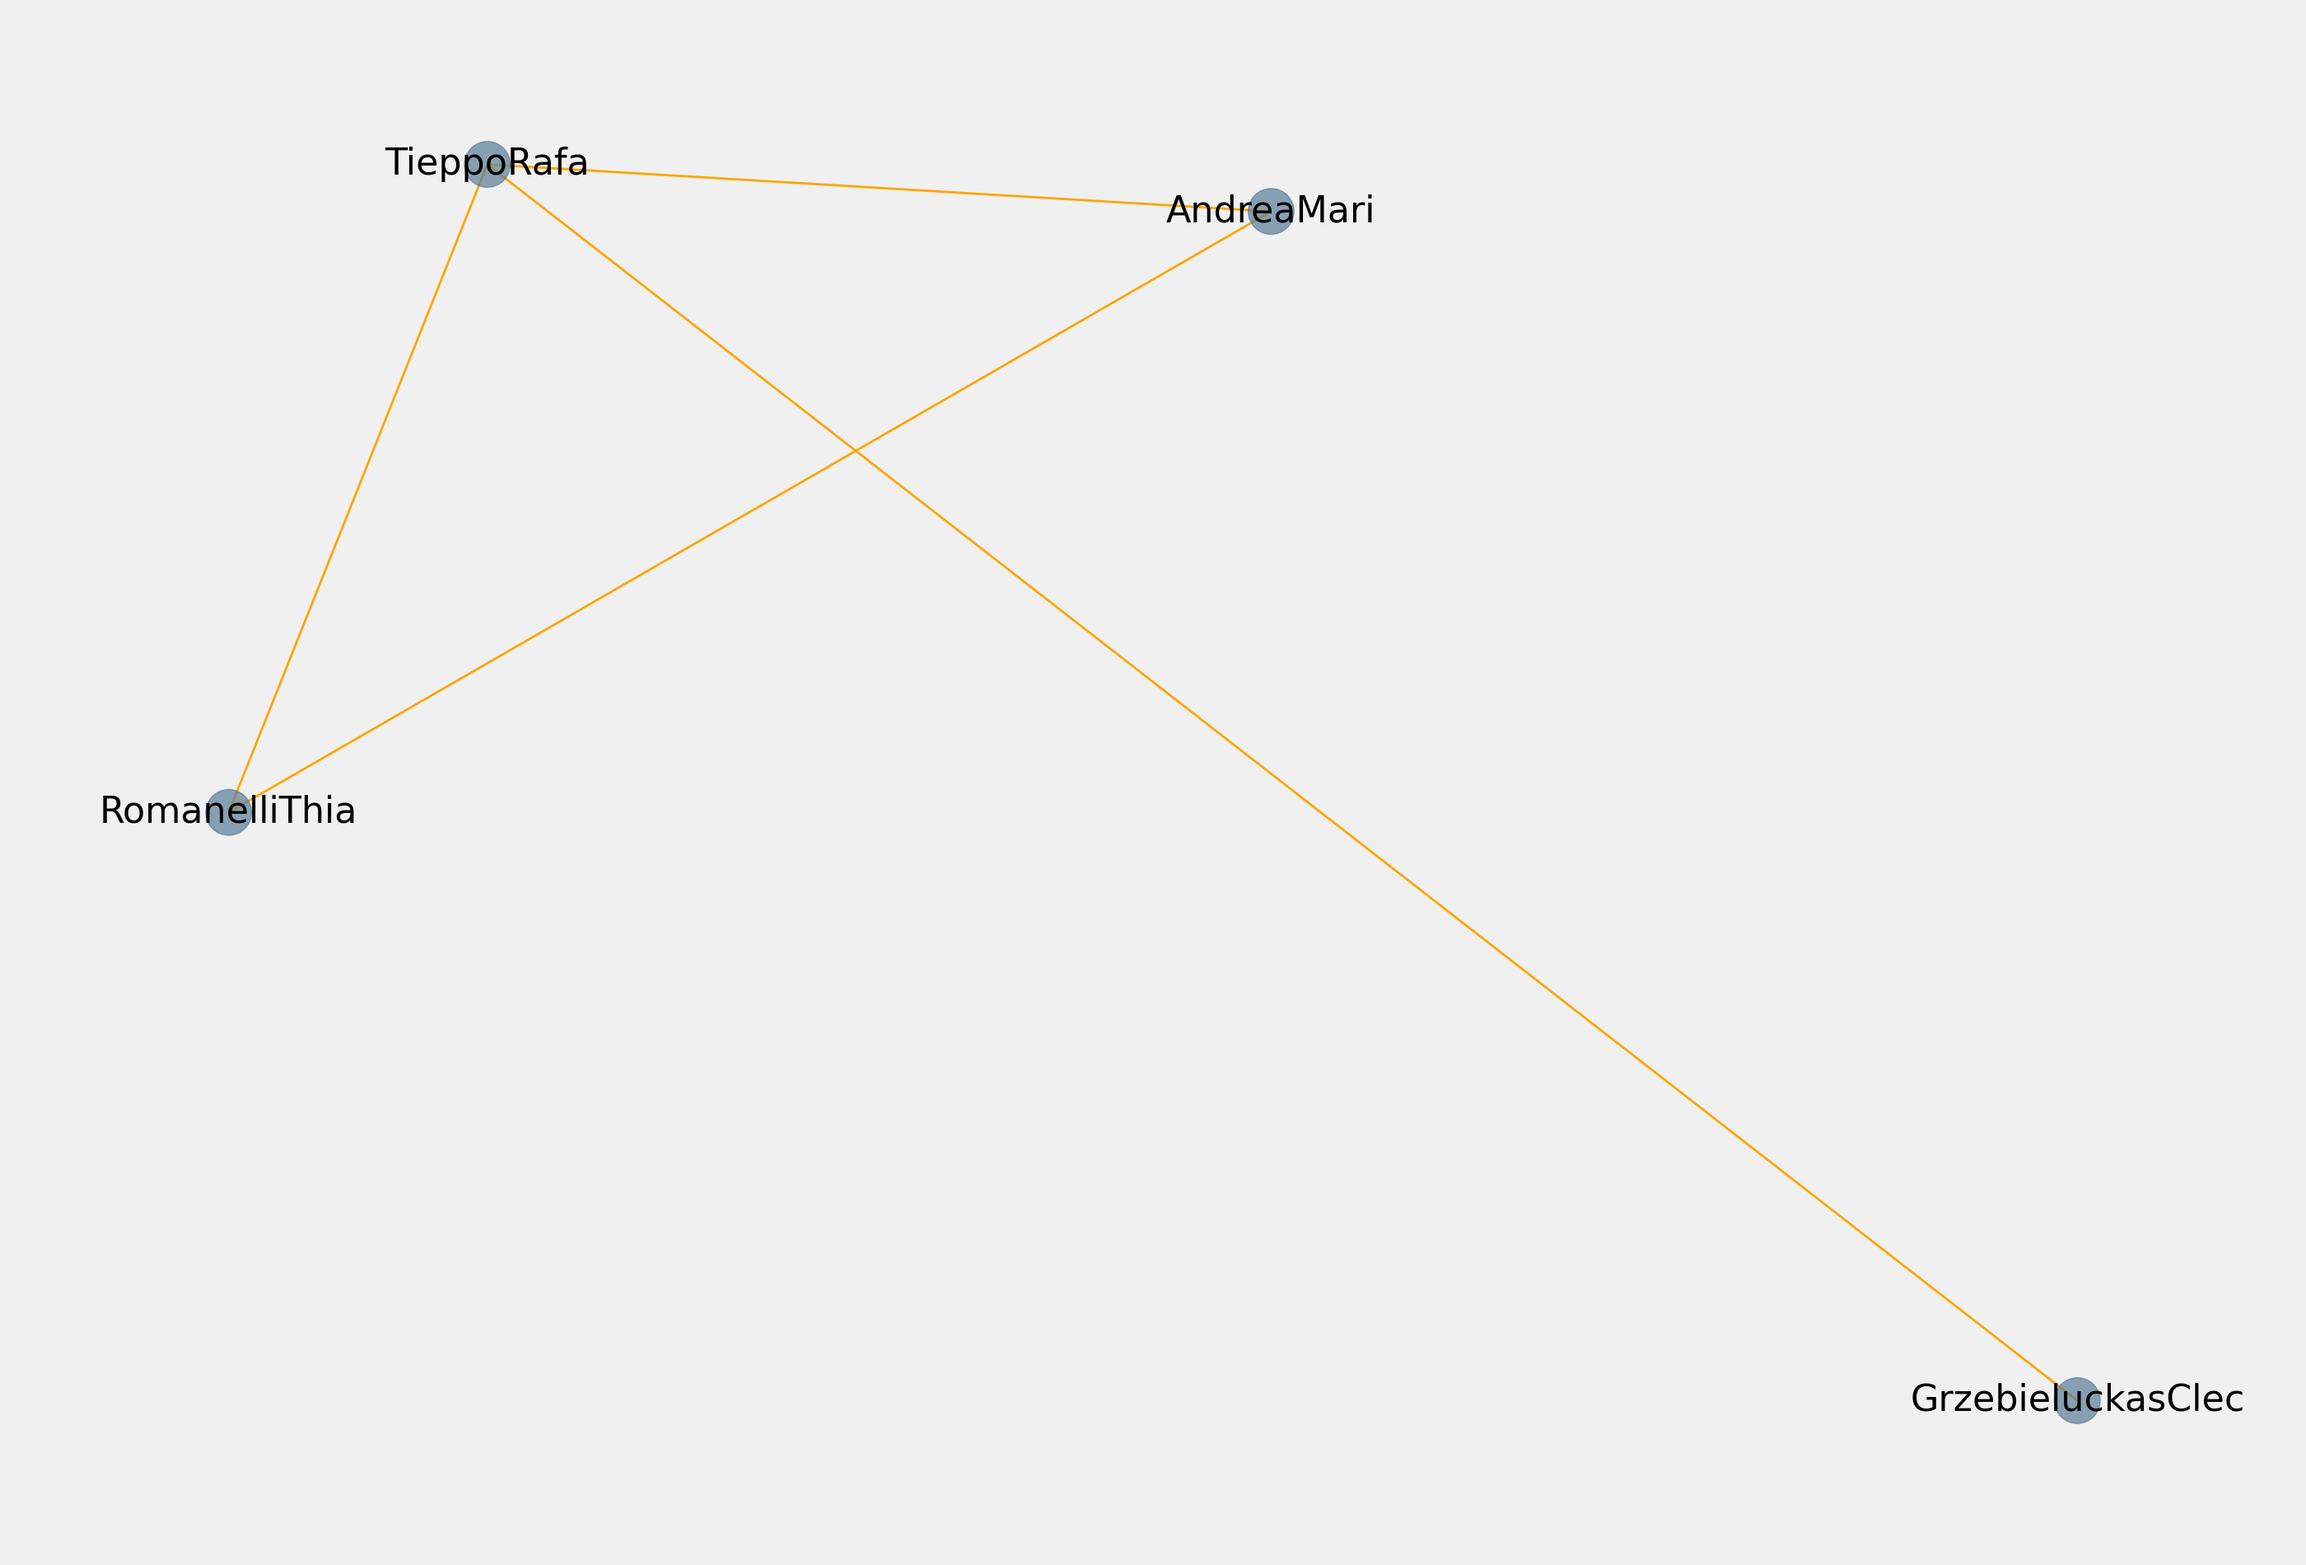
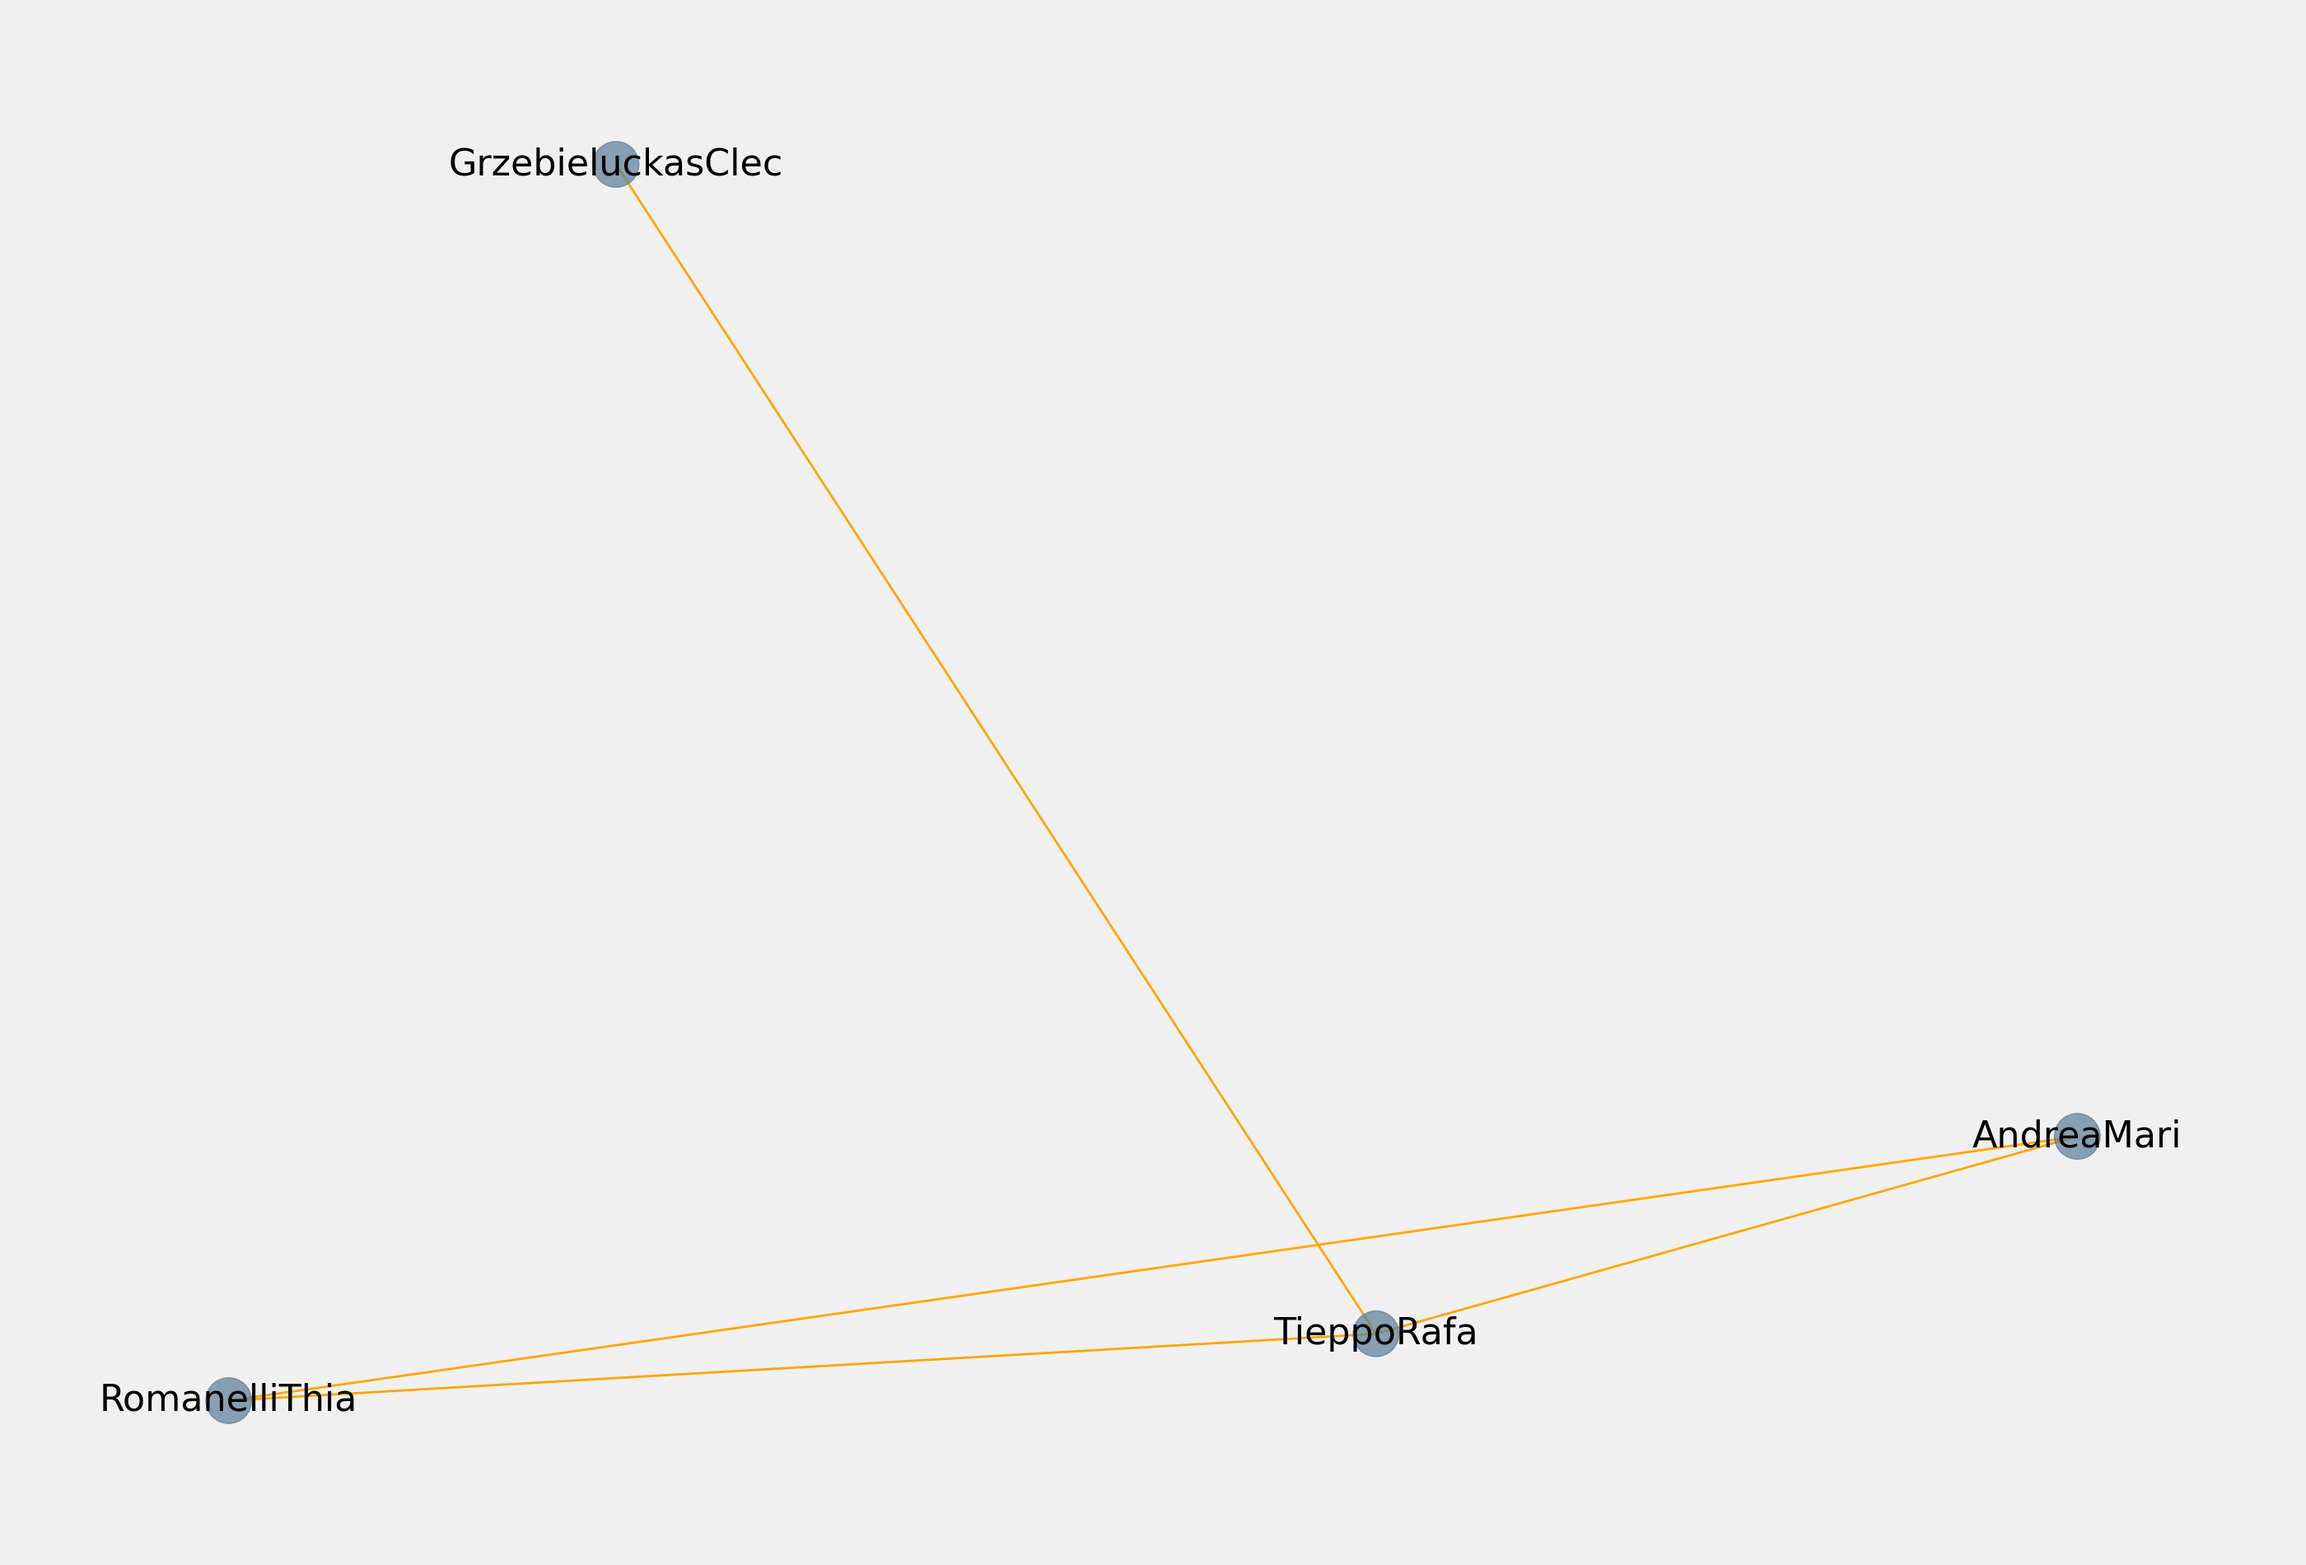
fix functions to get paper jcr qualis sjr quantile, it was added the function strip to remove spaces - trimming in issn code

diff --git a/resources/paper_qualis.py b/resources/paper_qualis.py
@@ -9,8 +9,11 @@ def paperqualis(ls_per_issn, qf):
     # qf = qualis_file()
     ls_paperqualis = []
     path_qualis = './jcr_qualis/' + qf
-    df_qualis = pd.read_csv(path_qualis,
-                            header=0, sep='\t')
+    # df_qualis = pd.read_csv(path_qualis,
+    #                         header=0, sep='\t')
+    df_qualis = (pd.read_csv(path_qualis, sep='\t', header=0, dtype='str')
+                 .assign(ISSN=lambda df_: df_['ISSN'].apply(lambda x: str(x).strip()))
+                 )
     for idq in range(len(ls_per_issn)):
         issn = ls_per_issn[idq]
         issn = str(issn[0:4]) + '-' + str(issn[4:])

diff --git a/resources/paper_scimago_sjr_best_quartile.py b/resources/paper_scimago_sjr_best_quartile.py
@@ -6,7 +6,10 @@ import pandas as pd
 def paper_scimago_sjr_bq(ls_per_issn):
     """Return jcr for papers from a assigned csv."""
     path_jcr = './jcr_qualis/scimago_factor.csv'
-    df_jcr = pd.read_csv(path_jcr, sep=',', header=0, dtype='str')
+    df_jcr = (pd.read_csv(path_jcr, sep=',', header=0, dtype='str')
+              .assign(ISSN_A=lambda df_: df_['ISSN_A'].apply(lambda x: str(x).strip()))
+              .assign(ISSN_B=lambda df_: df_['ISSN_B'].apply(lambda x: str(x).strip()))
+              )
     ls_jcr = []
     for idq in range(len(ls_per_issn)):
         issn = ls_per_issn[idq]

diff --git a/resources/paper_jcr.py b/resources/paper_jcr.py
@@ -6,7 +6,10 @@ import pandas as pd
 def paperjcr(ls_per_issn):
     """Return jcr for papers from a assigned csv."""
     path_jcr = './jcr_qualis/jcr_factor.csv'
-    df_jcr = pd.read_csv(path_jcr, sep=',', header=0, dtype='str')
+    df_jcr = (pd.read_csv(path_jcr, sep=',', header=0, dtype='str')
+              .assign(ISSN_A=lambda df_: df_['ISSN_A'].apply(lambda x: str(x).strip()))
+              .assign(ISSN_B=lambda df_: df_['ISSN_B'].apply(lambda x: str(x).strip()))
+              )
     ls_jcr = []
     for idq in range(len(ls_per_issn)):
         issn = ls_per_issn[idq]

diff --git a/resources/paper_scimago_sjr.py b/resources/paper_scimago_sjr.py
@@ -7,6 +7,10 @@ def paper_scimago_sjr(ls_per_issn):
     """Return jcr for papers from a assigned csv."""
     path_jcr = './jcr_qualis/scimago_factor.csv'
     df_jcr = pd.read_csv(path_jcr, sep=',', header=0, dtype='str')
+    df_jcr = (pd.read_csv(path_jcr, sep=',', header=0, dtype='str')
+              .assign(ISSN_A=lambda df_: df_['ISSN_A'].apply(lambda x: str(x).strip()))
+              .assign(ISSN_B=lambda df_: df_['ISSN_B'].apply(lambda x: str(x).strip()))
+              )
     ls_jcr = []
     for idq in range(len(ls_per_issn)):
         issn = ls_per_issn[idq]
